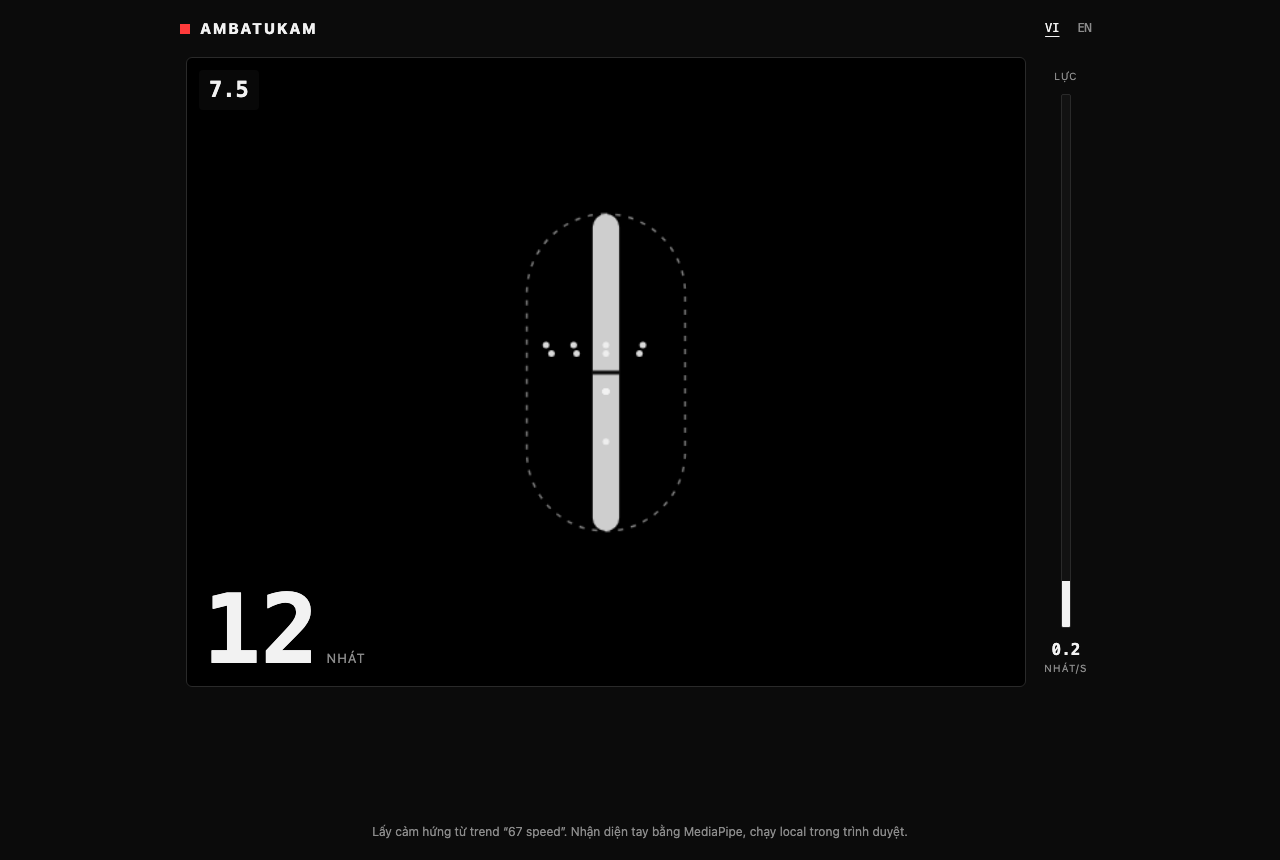
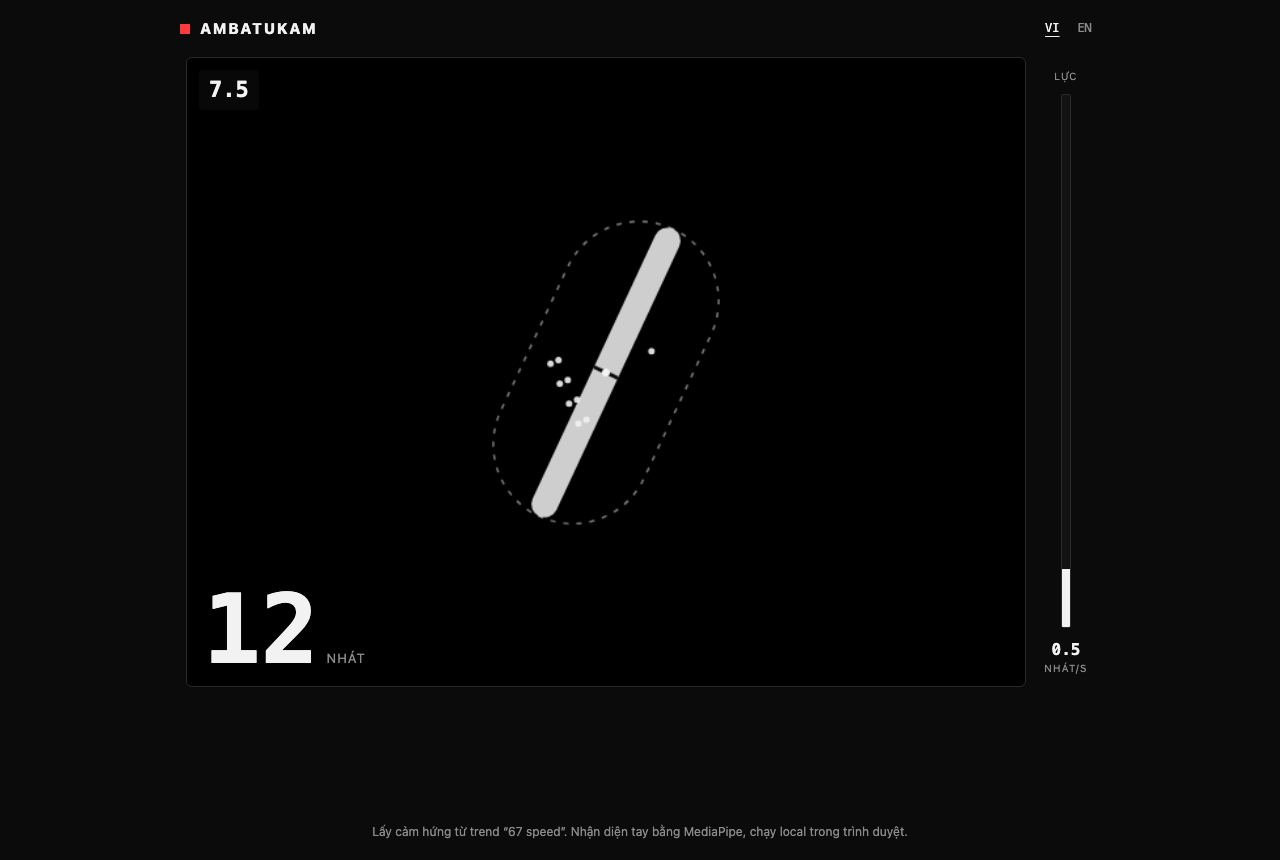
Rod follows hand orientation at anchor time
Rod axis = index→pinky knuckle line, smoothed while holding still.
Strokes are measured as motion projected onto that axis, so a tilted
grip counts along the tilt and perpendicular shaking does not. Overlay
is drawn in the rod's local frame.

Changed region(s): [[0.4062, 0.2419, 0.5312, 0.6349]]

diff --git a/game.js b/game.js
@@ -16,6 +16,7 @@ const ANCHOR_HOLD_MS = 1000;  // nắm trụ giữ yên bao lâu thì đặt đi
 const ANCHOR_STILL = 0.35;    // khi đặt neo, tay không được lệch quá 35% cỡ tay
 const ROD_HALF_LEN = 1.8;     // nửa chiều dài trụ (theo cỡ tay)
 const ROD_TOL_X = 0.9;        // tay được lệch ngang khỏi trục trụ bao nhiêu (theo cỡ tay)
+// Trục trụ = đường nối khớp ngón trỏ → khớp ngón út lúc đặt neo (khi nắm trụ, các khớp xếp dọc theo trụ)
 const INVALID_GRACE_MS = 150; // tay sai tư thế / lệch trụ quá lâu thì nhát đang dở bị huỷ
 const GRIP_MAX_AVG = 1.45;    // trung bình độ duỗi 4 ngón dưới mức này = đang nắm (để đặt neo)
 const OPEN_MIN_CURL = 1.6;    // ngón duỗi hơn mức này = duỗi thẳng; cả 4 ngón duỗi = xòe tay
@@ -37,7 +38,7 @@ const STRINGS = {
     fine: "Game meme giải trí, 16+. Không có hình ảnh nhạy cảm. Video không rời khỏi máy bạn.",
     bestLine: (n, d) => `Kỷ lục ${d}s: ${n} nhát · ${(n / d).toFixed(2)} nhát/s`,
     step1: "<b>Xòe tay</b>, giữ 1 giây = sẵn sàng",
-    step2: "<b>Nắm tay như cầm trụ</b>, giữ yên 1 giây = đặt điểm neo",
+    step2: "<b>Nắm tay như cầm trụ</b>, giữ yên 1 giây = đặt điểm neo. Trụ nghiêng theo hướng tay bạn",
     step3: "Xóc <b>lên xuống dọc trụ</b>. Lệch trụ hoặc xòe tay thì không tính",
     go: "Sẵn sàng",
     opening: "Đang mở camera…",
@@ -87,7 +88,7 @@ const STRINGS = {
     fine: "Meme game for fun, 16+. No explicit imagery. Video never leaves your device.",
     bestLine: (n, d) => `Best ${d}s: ${n} strokes · ${(n / d).toFixed(2)}/s`,
     step1: "<b>Open palm</b>, hold 1s = ready",
-    step2: "<b>Grip like holding a rod</b>, hold still 1s = set anchor",
+    step2: "<b>Grip like holding a rod</b>, hold still 1s = set anchor. The rod tilts to match your hand",
     step3: "Stroke <b>up and down along the rod</b>. Drifting off or opening your hand doesn't count",
     go: "Ready",
     opening: "Opening camera…",
@@ -199,7 +200,8 @@ let count = 0;
 let playStart = 0;
 let bins = [];                // số nhát theo từng giây
 let displayRate = 0;
-let anchor = null;            // { x, y, size } — điểm neo của thanh trụ
+let anchor = null;            // { x, y, size, ux, uy } — điểm neo + vector đơn vị trục trụ
+let axisEma = null;           // trục tay làm mượt trong lúc giữ yên đặt neo
 let onRod = false;            // khung hiện tại: tay đang nắm đúng trên trụ
 let invalidSince = null;
 let framesOnRod = 0;
@@ -378,9 +380,15 @@ function analyzeHand(lm, aspect) {
   curlEma = curlEma ? curlEma.map((c, i) => c * 0.5 + raw[i] * 0.5) : raw;
   const curls = curlEma;
   const extended = curls.filter((c) => c > OPEN_MIN_CURL).length;
+  // Trục nắm tay (2D): khớp ngón trỏ → khớp ngón út, chuẩn hoá để hướng "xuống" (y ≥ 0)
+  let ux = (lm[17].x - lm[5].x) * aspect, uy = lm[17].y - lm[5].y;
+  const len = Math.hypot(ux, uy) || 1;
+  ux /= len; uy /= len;
+  if (uy < 0 || (uy === 0 && ux < 0)) { ux = -ux; uy = -uy; }
   return {
     lm,
     size,
+    ux, uy,
     x: PALM_IDS.reduce((s, i) => s + lm[i].x, 0) / PALM_IDS.length,
     y: PALM_IDS.reduce((s, i) => s + lm[i].y, 0) / PALM_IDS.length,
     open: extended === 4,
@@ -390,14 +398,21 @@ function analyzeHand(lm, aspect) {
   };
 }
 
+// Toạ độ tay so với trụ: `along` dọc trục (dương = về phía ngón út), `perp` lệch ngang
+function rodCoords(h, aspect) {
+  const dx = (h.x - anchor.x) * aspect;
+  const dy = h.y - anchor.y;
+  return { along: dx * anchor.ux + dy * anchor.uy, perp: Math.abs(dx * anchor.uy - dy * anchor.ux) };
+}
+
 function isOnRod(h, aspect) {
   if (!anchor || h.released) return false;
-  const dx = Math.abs(h.x - anchor.x) * aspect;
-  const dy = Math.abs(h.y - anchor.y);
-  return dx < anchor.size * ROD_TOL_X && dy < anchor.size * ROD_HALF_LEN;
+  const { along, perp } = rodCoords(h, aspect);
+  return perp < anchor.size * ROD_TOL_X && Math.abs(along) < anchor.size * ROD_HALF_LEN;
 }
 
 // ---------- Xử lý mẫu ----------
+// `y` là toạ độ dọc trục đếm: trước khi có neo là y màn hình, có neo rồi là vị trí dọc trục trụ
 function feedSample(y, size, now) {
   smoothY = smoothY === null ? y : smoothY * 0.35 + y * 0.65;
   const rev = detector.push(smoothY, Math.max(0.015, size * STROKE_THR));
@@ -441,15 +456,26 @@ function processFrame(res, now) {
     // Nắm tay như cầm trụ và giữ yên → đặt điểm neo tại đó
     const inZone = !!hand && Math.abs(hand.x - 0.5) < ANCHOR_ZONE_X && Math.abs(hand.y - 0.5) < ANCHOR_ZONE_Y;
     const gripping = !!hand && hand.grip && inZone;
-    if (!gripping) anchorRef = null;
+    if (!gripping) { anchorRef = null; axisEma = null; }
     else if (!anchorRef || Math.hypot((hand.x - anchorRef.x) * aspect, hand.y - anchorRef.y) > hand.size * ANCHOR_STILL) {
       anchorRef = { x: hand.x, y: hand.y }; // tay dịch chuyển → đếm lại từ đầu
       anchorHold.reset();
+      axisEma = null;
+    }
+    if (gripping && seen) {
+      // Làm mượt trục tay trong lúc giữ yên; lật dấu nếu khung này ngược với trung bình
+      if (!axisEma) axisEma = { ux: seen.ux, uy: seen.uy };
+      else {
+        const s = seen.ux * axisEma.ux + seen.uy * axisEma.uy < 0 ? -1 : 1;
+        axisEma.ux = axisEma.ux * 0.8 + s * seen.ux * 0.2;
+        axisEma.uy = axisEma.uy * 0.8 + s * seen.uy * 0.2;
+      }
     }
     progress = anchorHold.update(gripping, now);
     setGesture(t(!hand || !hand.grip ? "gGrip" : !inZone ? "gCenter" : "gHold"), progress);
     if (progress >= 1) {
-      anchor = { x: hand.x, y: hand.y, size: hand.size };
+      const len = Math.hypot(axisEma.ux, axisEma.uy) || 1;
+      anchor = { x: hand.x, y: hand.y, size: hand.size, ux: axisEma.ux / len, uy: axisEma.uy / len };
       detector.reset();
       smoothY = null;
       startCountdown();
@@ -470,7 +496,10 @@ function processFrame(res, now) {
     if (state === "playing") { framesTotal++; if (onRod) framesOnRod++; }
   }
 
-  if (seen) feedSample(seen.y, anchor ? anchor.size : seen.size, now);
+  if (seen) {
+    if (anchor) feedSample(rodCoords(seen, aspect).along, anchor.size, now);
+    else feedSample(seen.y, seen.size, now);
+  }
   draw(seen, progress);
 }
 
@@ -480,18 +509,21 @@ function draw(seen, progress) {
   octx.clearRect(0, 0, w, h);
 
   if (anchor && (state === "countdown" || state === "playing")) {
-    const ax = anchor.x * w, ay = anchor.y * h;
     const half = anchor.size * ROD_HALF_LEN * h;
     const tol = anchor.size * ROD_TOL_X * h;
     // Trắng: đúng trụ · Đỏ: buông tay / lệch trụ · Xám: mất dấu tay
     const color = !hand ? "#8b8b8b" : onRod ? "#f2f2f2" : "#ff3b3b";
+    // Vẽ trong hệ toạ độ của trụ: gốc tại điểm neo, trục y cục bộ trùng trục trụ
+    octx.save();
+    octx.translate(anchor.x * w, anchor.y * h);
+    octx.rotate(Math.atan2(anchor.uy, anchor.ux) - Math.PI / 2);
     // Vùng hợp lệ: viền nét đứt mảnh
     octx.strokeStyle = color;
     octx.globalAlpha = 0.5;
     octx.setLineDash([4, 6]);
     octx.lineWidth = 1.5;
     octx.beginPath();
-    octx.roundRect(ax - tol, ay - half, tol * 2, half * 2, tol);
+    octx.roundRect(-tol, -half, tol * 2, half * 2, tol);
     octx.stroke();
     octx.setLineDash([]);
     // Thanh trụ: một khối đặc
@@ -499,12 +531,13 @@ function draw(seen, progress) {
     octx.globalAlpha = 0.85;
     octx.fillStyle = color;
     octx.beginPath();
-    octx.roundRect(ax - rodW / 2, ay - half, rodW, half * 2, rodW / 2);
+    octx.roundRect(-rodW / 2, -half, rodW, half * 2, rodW / 2);
     octx.fill();
-    // Điểm neo: vạch ngang cắt qua trụ
+    // Điểm neo: vạch cắt ngang trụ
     octx.globalAlpha = 1;
     octx.fillStyle = "#0b0b0b";
-    octx.fillRect(ax - rodW / 2, ay - 1.5, rodW, 3);
+    octx.fillRect(-rodW / 2, -1.5, rodW, 3);
+    octx.restore();
   }
 
   if (!seen) return;
@@ -695,7 +728,11 @@ function loop() {
   const marker = $("power-hand");
   const visible = smoothY !== null && handVisible();
   marker.classList.toggle("on", visible);
-  if (visible) marker.style.top = `calc(${(Math.min(1, Math.max(0, smoothY)) * 100).toFixed(1)}% - 1px)`;
+  if (visible) {
+    // Có neo: smoothY là vị trí dọc trụ (−half..half) → quy về 0..1 theo chiều dài trụ
+    const pos = anchor && input === "camera" ? 0.5 + smoothY / (2 * anchor.size * ROD_HALF_LEN) : smoothY;
+    marker.style.top = `calc(${(Math.min(1, Math.max(0, pos)) * 100).toFixed(1)}% - 1px)`;
+  }
 
   if (state === "playing") {
     const left = Math.max(0, duration - (now - playStart) / 1000);
@@ -728,13 +765,18 @@ if (params.has("debug")) {
   if (auto) {
     window.__amb.useFakeCamera();
     duration = 10;
-    anchor = { x: 0.5, y: 0.5, size: 0.14 };
+    // Trụ nghiêng 25° để thấy rõ trục theo tay
+    const tilt = (25 * Math.PI) / 180;
+    anchor = { x: 0.5, y: 0.5, size: 0.14, ux: Math.sin(tilt), uy: Math.cos(tilt) };
+    // Tay nắm giả: cổ tay bên trái, các khớp xếp dọc theo trục trụ
     const fakeHand = (cx, cy) => {
-      const lm = Array.from({ length: 21 }, () => ({ x: cx, y: cy, z: 0 }));
-      lm[0] = { x: cx, y: cy + 0.08, z: 0 };
-      [[5, -0.04, 8], [9, 0, 12], [13, 0.035, 16], [17, 0.065, 20]].forEach(([m, dx, tip]) => {
-        lm[m] = { x: cx + dx, y: cy - 0.06, z: 0 };
-        lm[tip] = { x: lm[0].x + 1.1 * dx, y: lm[0].y - 1.1 * 0.14, z: 0 };
+      const aspect = overlay.width / overlay.height;
+      const rot = (dx, dy) => ({ x: cx + (dx * Math.cos(tilt) - dy * Math.sin(tilt)) / aspect, y: cy + dx * Math.sin(tilt) + dy * Math.cos(tilt), z: 0 });
+      const lm = Array.from({ length: 21 }, () => rot(0, 0));
+      lm[0] = rot(-0.08, 0);
+      [[5, -0.05, 8], [9, -0.015, 12], [13, 0.02, 16], [17, 0.055, 20]].forEach(([m, dy, tip]) => {
+        lm[m] = rot(0.06, dy);
+        lm[tip] = rot(0.06 + 0.014, dy);
       });
       return lm;
     };
@@ -742,7 +784,7 @@ if (params.has("debug")) {
       startPlaying();
       count = 12; $("hud-count").textContent = count;
       for (let i = 0; i < 6; i++) strokes.push(performance.now() - i * 200);
-      processFrame({ landmarks: [fakeHand(0.5, 0.53)] }, performance.now());
+      processFrame({ landmarks: [fakeHand(0.5, 0.5)] }, performance.now());
     } else {
       count = 39; bins = [3, 4, 4, 5, 4, 4, 4, 4, 4, 3]; framesTotal = 100; framesOnRod = 82;
       finish();

diff --git a/README.md b/README.md
@@ -28,7 +28,7 @@ Khi đưa lên mạng phải dùng HTTPS (GitHub Pages, Vercel, Netlify… đề
 
 1. Chọn thời gian (10 / 20 / 30 giây), bấm **Bật camera & chơi**. Đây là lần bấm chuột duy nhất; từ đây điều khiển hoàn toàn bằng tay.
 2. **Xòe bàn tay**, giữ 1 giây → sẵn sàng.
-3. **Nắm tay như cầm trụ**, giữ yên 1 giây → game đặt **điểm neo** và vẽ thanh trụ ảo tại đó.
+3. **Nắm tay như cầm trụ**, giữ yên 1 giây → game đặt **điểm neo** và vẽ thanh trụ ảo tại đó, nghiêng theo đúng hướng tay bạn đang nắm.
 4. Đếm ngược 3-2-1, rồi **xóc lên xuống dọc theo trụ**. Chỉ những nhát đúng tư thế (tay nắm, nằm trong vùng trụ) mới được tính.
 5. Hết giờ: xem tốc độ trung bình, tổng nhát, đỉnh, % thời gian bám trụ, biểu đồ từng giây. **Xòe tay 1 giây** để chơi lại, hoặc bấm **Lưu ảnh** để tải ảnh kết quả 1080×1080.
 
@@ -49,8 +49,9 @@ Mỗi khung hình, MediaPipe trả về 21 điểm khớp của bàn tay. Game t
 | Xòe tay | Cả 4 ngón duỗi |
 | Nắm trụ | Trung bình độ duỗi 4 ngón < 1.45 (ngón trỏ thường duỗi hơn khi cầm trụ nên không xét từng ngón) |
 | Buông trụ (khi chơi) | Từ 3 ngón duỗi thẳng trở lên |
-| Một nhát | Tay đi xuống rồi đảo chiều đi lên, biên độ tối thiểu 25% cỡ tay (hysteresis, chống rung) |
-| Bám trụ | Tay nắm, lệch ngang < 0.9 cỡ tay và lệch dọc < 1.8 cỡ tay so với điểm neo |
+| Trục trụ | Đường nối khớp ngón trỏ → khớp ngón út lúc đặt neo (làm mượt trong 1 giây giữ yên). Nắm trụ nghiêng thế nào thì trụ nghiêng thế ấy |
+| Một nhát | Vị trí tay chiếu lên trục trụ đi về một phía rồi đảo chiều, biên độ tối thiểu 25% cỡ tay (hysteresis, chống rung). Chuyển động vuông góc với trụ không được tính |
+| Bám trụ | Tay nắm, lệch khỏi trục < 0.9 cỡ tay và dọc trục < 1.8 cỡ tay so với điểm neo |
 
 Xóc nhanh làm tay bị nhòe và mô hình mất dấu vài khung. Trong 0.4 giây game giữ trạng thái gần nhất thay vì phạt; mất lâu hơn thì trụ chuyển xám và nhắc thêm ánh sáng.
 
@@ -102,6 +103,6 @@ Inspired by the "67 speed" trend. Hand tracking runs entirely in the browser wit
 
 **Run locally:** any static server works, e.g. `python3 -m http.server 5173`, then open http://localhost:5173. Camera access requires `localhost` or HTTPS.
 
-**Play:** pick a duration → open palm 1s to get ready → grip and hold still 1s to set the anchor → stroke along the virtual rod. Only strokes made while gripping inside the rod zone count. Open palm again to replay. Keyboard mode (`↑` `↓`) is available without a camera.
+**Play:** pick a duration → open palm 1s to get ready → grip and hold still 1s to set the anchor (the rod takes the tilt of your grip) → stroke along the virtual rod. Only strokes made while gripping inside the rod zone count. Open palm again to replay. Keyboard mode (`↑` `↓`) is available without a camera.
 
 Switch language with the VI / EN toggle. All tuning constants are documented at the top of `game.js`.
